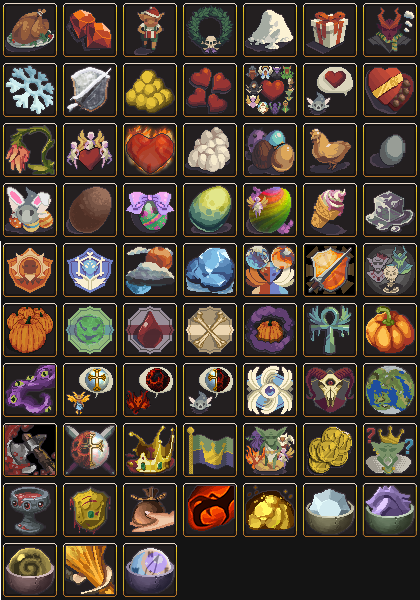
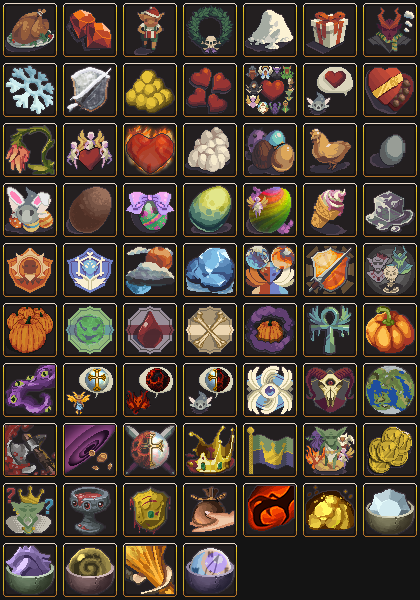
Blood War Event + Fixes

diff --git a/Events/index.php b/Events/index.php
@@ -61,7 +61,7 @@
 				<tr>
 					<th>Rubies</th>
 					<th colspan="1">Event</th>
-					<th colspan="8">Total Cumulative Bonus: 454%</th>
+					<th colspan="8">Total Cumulative Bonus: 462%</th>
 				</tr>
 			</thead>
 			<tbody>
@@ -119,6 +119,7 @@
 						<td>Anniversary</td>
 						<td></td>
 						<td></td>
+						<td>8%</td>
 						<td>8%</td>
 						<td>8%</td>
 						<td>8%</td>
@@ -592,32 +593,39 @@
 			" coords="3,423,57,477" shape="rect">
 			<area research="
 			<p><b>Anniversary - Blood War</b></p>
+			<p><b><img src='/realm/Factions/picks/PlanarTax.png' align='middle'> Planar Tax</b></p>
+			<p><b>Type</b>: Feat</p>					
+			<p><b>Requirement</b>: Collect a stack of at least 720 of any resource in a game with at least 1000 Tax Collection casts.</p>
+			<p><b>Note</b>: If you unlock this feat, you will permanently unlock a new icon option for the spell.</p>
+			" coords="63,423,117,477" shape="rect">
+			<area research="
+			<p><b>Anniversary - Blood War</b></p>
 			<p><b><img src='/realm/Factions/picks/EternalBattle.png' align='middle'> Eternal Battle</b></p>
 			<p><b>Type</b>: Feat</p>
 			<p><b>Requirement</b>: Collect a stack of at least 720 of any resource while having 3 upgrades of any Blood War faction.</p>
 			<p><b>Note</b>: If you unlock this feat, you will permanently unlock a new cosmetic shape for your coin particles.</p>
-			" coords="63,423,117,477" shape="rect">
+			" coords="123,423,177,477" shape="rect">
 			<area research="
 			<p><b>Goblin Invasion</b></p>
 			<p><b><img src='/realm/Factions/picks/GoblinsBane2017.png' align='middle'> Goblins Bane</b></p>
 			<p><b>Type</b>: Feat</p>
 			<p><b>Requirement</b>: Fight the Goblin Army 100 times.</p>
 			<p><b>Note</b>: If you unlock all of this event's feats, you will permanently unlock a new color option for the mana bar.</p>
-			" coords="123,423,177,477" shape="rect">
+			" coords="183,423,237,477" shape="rect">
 			<area research="
 			<p><b>Goblin Invasion</b></p>
 			<p><b><img src='/realm/Factions/picks/GoblinsCommander2017.png' align='middle'> Goblin's Commander</b></p>
 			<p><b>Type</b>: Feat</p>
 			<p><b>Requirement</b>: Support the Goblin Army 100 times.</p>
 			<p><b>Note</b>: If you unlock all of this event's feats, you will permanently unlock a new color option for the mana bar.</p>
-			" coords="183,423,237,477" shape="rect">
+			" coords="243,423,297,477" shape="rect">
 			<area research="
 			<p><b>Goblin Invasion</b></p>
 			<p><b><img src='/realm/Factions/picks/GoblinsEverywhere!2017.png' align='middle'> Goblins Everywhere!</b></p>
 			<p><b>Type</b>: Feat</p>
 			<p><b>Requirement</b>: Collect at least 10 Goblin Crowns in a single click while affiliated with any 6 different factions.</p>
 			<p><b>Note</b>: If you unlock all of this event's feats, you will permanently unlock a new color option for the mana bar.</p>
-			" coords="243,423,297,477" shape="rect">
+			" coords="303,423,357,477" shape="rect">
 			<area research="
 			<p><b>Goblin Invasion</b></p>
 			<p><b><img src='/realm/Factions/picks/GoldHunt2018.png' align='middle'> Gold Hunt</b></p>
@@ -625,7 +633,7 @@
 			<p><b>Requirement</b>: Collect at least 480 Goblin Crowns with a single click while affiliated with Goblins.</p>
 			<p><b>Note</b>: As prestige, only prestige will count. For example, Angel/Dwarven counts as Dwarven for feat purposes.</p>
 			<p><b>Note</b>: If you unlock all of this event's feats, you will permanently unlock a new color option for the mana bar.</p>
-			" coords="303,423,357,477" shape="rect">
+			" coords="363,423,417,477" shape="rect">
 			<area research="
 			<p><b>Goblin Invasion</b></p>
 			<p><b><img src='/realm/Factions/picks/TheUndecidedArmada.png' align='middle'> The Undecided Armada</b></p>
@@ -635,14 +643,14 @@
 			<p><b>Effect</b>: Increase assistants based on the amount of buildings you own (multiplicative).</p>
 			<p><b>Formula</b>: (0.65 * x ^ 0.35)%, where x is the amount of buildings you own.</p>
 			<p><b>Note</b>: Once unlocked, it is available during any Seasonal Event.</p>
-			" coords="363,423,417,477" shape="rect">
+			" coords="3,483,57,537" shape="rect">
 			<area research="
 			<p><b>Goblin Invasion</b></p>
 			<p><b><img src='/realm/Factions/picks/PlatinumTrophy.png' align='middle'> Platinum Trophy</b></p>
 			<p><b>Type</b>: Feat</p>
 			<p><b>Requirement</b>: While affiliated with the Goblins and having supported the Army at least 70 times, collect a stack of at least 720 Goblin Crowns.</p>
 			<p><b>Note</b>: If you unlock this feat, you will permanently unlock a new cosmetic shape for your coin particles.</p>
-			" coords="3,483,57,537" shape="rect">
+			" coords="63,483,117,537" shape="rect">
 			<area research="
 			<p><b>Goblin Invasion</b></p>
 			<p><b><img src='/realm/Factions/picks/BloodyCrown.png' align='middle'> Bloody Crown</b></p>
@@ -651,56 +659,56 @@
 			<p><b>Note</b>: If you unlock this feat, you will permanently unlock a new upgrade with the same name.</p>
 			<p><b>Effect</b>: Increase production bonus from Gems by a multiplicative 10%.</p>
 			<p><b>Note</b>: Once unlocked, it is available during any Seasonal Event.</p>
-			" coords="63,483,117,537" shape="rect">
+			" coords="123,483,177,537" shape="rect">
 			<area research="
 			<p><b>Idillium</b></p>
 			<p><b><img src='/realm/Factions/picks/GentleCollector.png' align='middle'> Gentle Collector</b></p>
 			<p><b>Type</b>: Feat</p>
 			<p><b>Requirement</b>: Collect at least 720 Entropic Drops with a single click while affiliated with the Fairies.</p>
 			<p><b>Note</b>: If you unlock all of this event's feats, you will permanently unlock a new color option for the mana bar.</p>
-			" coords="123,483,177,537" shape="rect">
+			" coords="183,483,237,537" shape="rect">
 			<area research="
 			<p><b>Idillium</b></p>
 			<p><b><img src='/realm/Factions/picks/AggressiveCollector.png' align='middle'> Aggressive Collector</b></p>
 			<p><b>Type</b>: Feat</p>
 			<p><b>Requirement</b>: Collect at least 720 Crystal Prisms with a single click while affiliated with the Undead.</p>
 			<p><b>Note</b>: If you unlock all of this event's feats, you will permanently unlock a new color option for the mana bar.</p>
-			" coords="183,483,237,537" shape="rect">
+			" coords="243,483,297,537" shape="rect">
 			<area research="
 			<p><b>Idillium</b></p>
 			<p><b><img src='/realm/Factions/picks/GoldenAge.png' align='middle'> Golden Age</b></p>
 			<p><b>Type</b>: Feat</p>
 			<p><b>Requirement</b>: Cast Remnant spells at least 1000 times.</p>
 			<p><b>Note</b>: If you unlock all of this event's feats, you will permanently unlock a new color option for the mana bar.</p>
-			" coords="243,483,297,537" shape="rect">
+			" coords="303,483,357,537" shape="rect">
 			<area research="
 			<p><b>Idillium</b></p>
 			<p><b><img src='/realm/Factions/picks/OrderRestoration.png' align='middle'> Order Restoration</b></p>
 			<p><b>Type</b>: Feat</p>
 			<p><b>Requirement</b>: Upgrade Order Remnant to Level 15.</p>
 			<p><b>Note</b>: If you unlock all of this event's feats, you will permanently unlock a new color option for the mana bar.</p>
-			" coords="303,483,357,537" shape="rect">
+			" coords="363,483,417,537" shape="rect">
 			<area research="
 			<p><b>Idillium</b></p>
 			<p><b><img src='/realm/Factions/picks/ChaosRestoration.png' align='middle'> Chaos Restoration</b></p>
 			<p><b>Type</b>: Feat</p>
 			<p><b>Requirement</b>: Upgrade Chaos Remnant to Level 15.</p>
 			<p><b>Note</b>: If you unlock all of this event's feats, you will permanently unlock a new color option for the mana bar.</p>
-			" coords="363,483,417,537" shape="rect">
+			" coords="3,543,57,597" shape="rect">
 			<area research="
 			<p><b>Idillium</b></p>
 			<p><b><img src='/realm/Factions/picks/BalanceRestoration.png' align='middle'> Balance Restoration</b></p>
 			<p><b>Type</b>: Feat</p>
 			<p><b>Requirement</b>: Upgrade Balance Remnant to Level 15.</p>
 			<p><b>Note</b>: If you unlock all of this event's feats, you will permanently unlock a new color option for the mana bar.</p>
-			" coords="3,543,57,597" shape="rect">
+			" coords="63,543,117,597" shape="rect">
 			<area research="
 			<p><b>Idillium</b></p>
 			<p><b><img src='/realm/Factions/picks/BalancedCollector.png' align='middle'> Balanced Collector</b></p>
 			<p><b>Type</b>: Feat</p>
 			<p><b>Requirement</b>: While affiliated with the Druids, collect a stack of at least 720 Equilibrium Fragments.</p>
 			<p><b>Note</b>: If you unlock this feat, you will permanently unlock a new cosmetic shape for your coin particles.</p>
-			" coords="63,543,117,597" shape="rect">
+			" coords="123,543,177,597" shape="rect">
 			<area research="
 			<p><b>Idillium</b></p>
 			<p><b><img src='/realm/Factions/picks/IdilliumExplorer.png' align='middle'> Idillium Explorer</b></p>
@@ -709,9 +717,9 @@
 			<p><b>Note</b>: If you unlock this feat, you will permanently unlock a new upgrade with the same name.</p>
 			<p><b>Effect</b>: Reduce the cost of all spells by 10%.</p>
 			<p><b>Note</b>: Once unlocked, it is available during any Seasonal Event.</p>
-			" coords="123,543,177,597" shape="rect">
+			" coords="183,543,237,597" shape="rect">
 		</map>
-		</p>
+	</p>
 	</center>
 	<hr>
 	<br style="clear: both" />
@@ -890,6 +898,153 @@
 	<div class="shlisting">
 		<p onclick="shohid($(this));"><b> <a href="#" onclick="return false;">2022 Events</a></b></p>
 		<div class="category autohide">
+			<div class="shelementwhole">
+				<p onclick="shohid($(this));"><b><a href="#" onclick="return false;">7th Anniversary - Blood War (May 17 - May 21, 2022)</a></b></p>
+				<div class="autohide">
+					<p>The Blood War event will be starting on <b>May 17th 2022, 12:01 PM UTC</b> and will end on <b>May 21st 2022, 6:59 PM UTC</b>.</p>
+					<p><b><img src="/realm/Factions/picks/NephilimGlory2017.png" alt="Nephilim Glory" align="middle"> Nephilim Glory</b></p>
+					<p><b>Cost</b>: Free</p>
+					<p><b>Effect</b>: Increase the production of all buildings based on the total amount of Holy Symbols and Lava Stones collected.</p>
+					<p><b>Note</b>: Persist through Abdication and Reincarnation. Will Disappear at the end of the event.</p>
+					<style>
+						div#images {
+							width: 100%;
+							text-align: left;
+						}
+
+						div#images div {
+							display: inline-block;
+						}
+					</style>
+					<p><b><center>Event Resources</center></b></p>
+					<div id="images">
+						<center>
+							<div>
+								<center><img src="/realm/Factions/picks/HolySymbolCurrency.png" width="54%" height="54%" /></center>
+								<center><b>Holy Symbols</b></center>
+							</div>
+							<div>
+								<center><img src="/realm/Factions/picks/LavaStoneCurrency.png" width="64%" height="64%" /></center>
+								<center><b>Lava Stones</b></center>
+							</div>
+						</center>
+					</div>
+					<br>
+					<p>Holy Symbols and Lava Stones will appear on a random location of the game screen and you simply have to click to collect them, then wait for more Resources to appear. Or you can let them grow bigger over time (at a rate of 1 Resource per Minute) if you are idle or offline, up to a maximum size of 720 Holy Symbols or Lava Stones! Be careful though, you can only collect one stack of Holy Symbols or Lava Stones - by doing so, the other will disappear.</p>
+					<p><b>Note</b>: You need 2350 of each resource to get all the upgrades.</p>
+					<p><b>Note</b>: All upgrades has a 1 time cost but needs selected every Abdication and Reincarnation.</p>
+					<hr>
+					<p><b><img src="/realm/Factions/picks/SeraphimAlliance2017.png" alt="Seraphim Alliance" align="middle"> Seraphim Alliance</b></p>
+					<p><b>Cost</b>: 200 Holy Symbols</p>
+					<p><b>Description</b>: The highest Angelic ranks carry wings blazing with pure light, whose every feather is infused with enough magical power to revive a dead soul or purify the hearts of a thousand sinners. Affiliating with the Seraphim will increase your magical abilities to the extreme, but you can only do so when playing as Good or Neutral.</p>
+					<br/>
+					<p><b>Seraphim Quest</b></p>
+					<p><b>Seraphim Champion 1</b></p>
+					<p><b><img src="/realm/Factions/picks/HeavenlyFeathers2017.png" alt="Heavenly Feathers" align="middle"> Heavenly Feathers</b></p>
+					<p><b>Cost</b>: 400 Holy Symbols.</p>
+					<p><b>Effect</b>: All buildings also increase your mana regeneration.</p>
+					<p><b>Formula</b>: (2 * x ^ 0.2)</p>
+					<p><b>Effect</b>: Adds 1% cumulative bonus to you total Event bonus.</p>
+					<br/>
+					<p><b>Seraphim Champion 2</b></p>
+					<p><b><img src="/realm/Factions/picks/God'sChamber2017.png" alt="God's Chamber" align="middle"> God's Chamber</b></p>
+					<p><b>Cost</b>: 750 Holy Symbols.</p>
+					<p><b>Effect</b>: Increase maximum mana by 1 for every 10 buildings you own.</p>
+					<p><b>Effect</b>: Adds 1% cumulative bonus to you total Event bonus.</p>
+					<br/>
+					<p><b>Seraphim Champion 3</b></p>
+					<p><b><img src="/realm/Factions/picks/BoonofRadiance2017.png" alt="Boon of Radiance" align="middle"> Boon of Radiance</b></p>
+					<p><b>Cost</b>: 1000 Holy Symbols.</p>
+					<p><b>Effect</b>: Increase the production of all buildings based on mana regeneration.</p>
+					<p><b>Formula</b>: (0.2 * (x * 30) ^ 0.85), where x is current mana regeneration.</p>
+					<p><b>Effect</b>: Adds 2% cumulative bonus to you total Event bonus.</p>
+					<p><b>Effect</b>: Also completes Seraphim Champion Feat.</p>
+					<hr>
+					<p><b><img src="/realm/Factions/picks/AsmondeanAlliance2017.png" alt="Asmodean Alliance" align="middle"> Asmodean Alliance</b></p>
+					<p><b>Cost</b>: 200 Lava Stones</p>
+					<p><b>Description</b>: The most cruel of Demons also happen to be the biggest and most deformed abyssal creatures, featuring all kinds of unnatural flesh and bone appendages. Their very existence is a pain to see and hear driving all but the most strong souls to madness. Affiliating with the Asmodeans will bolster your assistant army unbelievably, but you can only do so when playing as Evil or Neutral.</p>
+					<br/>
+					<p><b>Asmodean Quest</b></p>
+					<p><b>Asmodean Champion 1</b></p>
+					<p><b><img src="/realm/Factions/picks/Broodmothers2017.png" alt="Broodmothers" align="middle"> Broodmothers</b></p>
+					<p><b>Cost</b>: 400 Lava Stones</p>
+					<p><b>Effect</b>: Gain additional assistants based on time spent affiliated with the Asmodeans.</p>
+					<p><b>Formula</b>: (0.25 * x * (x + 1)), where x is hours</p>
+					<p><b>Effect</b>: Adds 1% cumulative bonus to you total Event bonus</p>
+					<br/>
+					<p><b>Asmodean Champion 2</b></p>
+					<p><b><img src="/realm/Factions/picks/AbyssalGaze2017.png" alt="Abyssal Gaze" align="middle"> Abyssal Gaze</b></p>
+					<p><b>Cost</b>: 750 Lava Stones</p>
+					<p><b>Effect</b>: Increase assistant production based on time spent as Evil (This R).</p>
+					<p><b>Formula</b>: (2 * x ^ 0.7)</p>
+					<p><b>Effect</b>: Adds 1% cumulative bonus to you total Event bonus</p>
+					<br/>
+					<p><b>Asmodean Champion 3</b></p>
+					<p><b><img src="/realm/Factions/picks/Legion'sLimbs2017.png" alt="Legion's Limbs" align="middle"> Legion's Limbs</b></p>
+					<p><b>Cost</b>: 1000 Lava Stones</p>
+					<p><b>Effect</b>: Increase clicking rewards based on the amount of assistants you own.</p>
+					<p><b>Formula</b>: (x ^ 0.85)</p>
+					<p><b>Effect</b>: Adds 2% cumulative bonus to you total Event bonus</p>
+					<p><b>Effect</b>: Also completes Asmodean Champion Feat.</p>
+					<hr>
+					<p><b>Event Feats</b></p>
+					<p>If you unlock all of this event's feats, you will permanently unlock a new color option for the mana bar.</p>
+					<p><b><img src="/realm/Factions/picks/SeraphimChampion2017.png" alt="Seraphim Champion" align="middle"> Seraphim Champion</b></p>
+					<p><b>Requirement</b>: Purchase all Seraphim Upgrades.</p>
+					<br/>
+					<p><b><img src="/realm/Factions/picks/AsmondeanChampion2017.png" alt="Asmodean Champion" align="middle"> Asmodean Champion</b></p>
+					<p><b>Requirement</b>: Purchase all Asmodean Upgrades</p>
+					<br/>
+					<p><b><img src="/realm/Factions/picks/SacredHoliness2017.png" alt="Sacred Holiness" align="middle"> Sacred Holiness</b></p>
+					<p><b>Requirement</b>: Collect at least 480 Holy Symbols with a single click while affiliated with the Angels.</p>
+					<br/>
+					<p><b><img src="/realm/Factions/picks/DarkestHeresy2017.png" alt="Darkest Heresy" align="middle"> Darkest Heresy</b></p>
+					<p><b>Requirement</b>: Collect at least 480 Lava Stones with a single click while affiliated with the Demons</p>
+					<br/>
+					<p><b><img src="/realm/Factions/picks/Indifference2018.png" alt="Indifference" align="middle"> Indifference</b></p>
+					<p><b>Requirement</b>: Collect at least 480 Lava Stones with a single click or Holy Symbols while affiliated with a Neutral faction</p>
+					<br/>
+					<p><b><img src="/realm/Factions/picks/WorldRestoration.png" alt="World Restoration" align="middle"> World Restoration</b></p>
+					<p><b>Requirement</b>: Have the same amount of Holy Symbols and Lava Stone at any given time, while having at least 1400.(Total)</p>
+					<p><b>Cost</b>: Free</p>
+					<p><b>Effect</b>: Increase the production of aligned buildings based on time spent as your least used alignment in this Reincarnation.</p>
+					<p><b>Formula</b>: (25 + 0.5 * x ^ 0.5)%, where x is your least used alignment in this Reincarnation (in seconds).</p>
+					<br/>
+					<p><b><img src="/realm/Factions/picks/FrenziedArmy2021.png" alt="Frenzied Army" align="middle"> Frenzied Army</b></p>
+					<p><b>Requirement</b>: Collect a stack of at least 720 of any resource while Blood Frenzy and Call to Arms are active simultaneously.</p>
+					<p><b>Note</b>: If you unlock this feat, you will permanently unlock a new upgrade with the same name.</p>
+					<p><b>Effect</b>: Increase assistants by 10%.</p>
+					<br/>
+					<p><b><img src="/realm/Factions/picks/PlanarTax.png" align="middle"> Planar Tax</b></p>
+					<p><b>Requirement</b>: Collect a stack of at least 720 of any resource in a game with at least 1000 Tax Collection casts.</p>
+					<p><b>Note</b>: If you unlock this feat, you will permanently unlock a new icon option for the spell.</p>
+					<br/>
+					<p><b><img src="/realm/Factions/picks/EternalBattle.png" align="middle"> Eternal Battle</b></p>
+					<p><b>Requirement</b>: Collect a stack of at least 720 of any resource while having 3 upgrades of any Blood War faction.</p>
+					<p><b>Note</b>: If you unlock this feat, you will permanently unlock a new cosmetic shape for your coin particles.</p>
+					<hr>
+					<p><b>Shop Item</b></p>
+					<p><b><img src="/realm/Factions/picks/40HolySymbolsandLavaStones2017.png" alt="40 Holy Symbols and Lava Stones" align="middle"> 40 Holy Symbols and Lava Stones</b></p>
+					<p>A hooded shady merchant wants to sell you 40 Holy Symbols and Lava Stones for 5 Rubies.</p>
+					<p>He will offer you a new deal if you accept.</p>
+					<br/>
+					<p><b><img src="/realm/Factions/picks/150HolySymbolsandLavaStones2017.png" alt="150 Holy Symbols and Lava Stones" align="middle"> 150 Holy Symbols and Lava Stones</b></p>
+					<p>A hooded shady merchant wants to sell you 150 Holy Symbols and Lava Stones for 15 Rubies.</p>
+					<p>He will offer you a new deal if you accept.</p>
+					<br/>
+					<p><b><img src="/realm/Factions/picks/650HolySymbolsandLavaStones2017.png" alt="650 Holy Symbols and Lava Stones" align="middle"> 650 Holy Symbols and Lava Stones</b></p>
+					<p>A hooded shady merchant wants to sell you 650 Holy Symbols and Lava Stones for 45 Rubies.</p>
+					<p>He will offer you a new deal if you accept.</p>
+					<br/>
+					<p><b><img src="/realm/Factions/picks/1800HolySymbolsandLavaStones2017.png" alt="1800 Holy Symbols and Lava Stones" align="middle"> 1800 Holy Symbols and Lava Stones</b></p>
+					<p>A hooded shady merchant wants to sell you 1800 Holy Symbols and Lava Stones for 100 Rubies.</p>
+					<p>These are all the resources he could gather.</p>
+					<br/>
+					<p><b><img src="/realm/Factions/picks/Valentine2017Scry.png" align="middle"> Scrying</b></p>
+					<p><b>Effect</b>: Produces 1 Lave Stone and 1 Holy Synbol every 10 minutes for 4 hours.</p>
+					<hr>
+				</div>
+			</div>
 			<div class="shelementwhole">
 				<p onclick="shohid($(this));"><b><a href="#" onclick="return false;">Easter (Apr 14 - Apr 21, 2022)</a></b></p>
 				<div class="autohide">

diff --git a/Challenges/index.php b/Challenges/index.php
@@ -694,7 +694,7 @@
 	<p><b><img src='http://musicfamily.org/realm/Factions/picks/AnUntimelyDeathChallenge.png' align='middle'> An Untimely Death</b></p>
 	<p>&quot;A glorious victory! May we reap the rewards of war with new undead adversaries to join our quest.&quot;</p>
 	<p><b>Requirements</b>: Undead as Base Faction, Archon as Elite Faction, Reincarnation 139+, Archon Bloodline active, Archon challenge 1 completed.</p>
-	<p><b>Challenge</b>: Have an Offline Bonus of at least 300 No (3e32)% while also having at least 100 B (1e11) assistants.</p>
+	<p><b>Challenge</b>: Have an Offline Bonus of at least 10 Sp (1e25)% while also having at least 100 B (1e11) assistants.</p>
 	<p><b>Effect</b>: Multiplicatively increase assistants based on Offline Bonus.</p>
 	<p><b>Formula</b>: (2 * log10(1 + x) ^ 2)%, where x is offline bonus multiplier.</p>
 	<p><b>Effect</b>: Temporal Flux also increases Offline Bonus (same Formula as production bonus).</p>

diff --git a/Artifacts/index.php b/Artifacts/index.php
@@ -170,7 +170,7 @@
 	<p><b><img src='http://musicfamily.org/realm/Factions/picks/ThirdCrystalFragment.png' align='middle'> Third Crystal Fragment</b></p>
 	<p><b>Hint</b>: Also acts as a spell catalyst.</p>
 	<p><b>Description</b>: A strange, glass-like material that appears to have been shattered into three pieces.</p>
-	<p><b>Requirement</b>: R125+, Demon Faction, 12,500+ Excavations/p>
+	<p><b>Requirement</b>: R125+, Demon Faction, 12,500+ Excavations</p>
 	<p><b>Chance</b>: (x / 50,000,000 (50 M))%, where x is evil spells this Reincarnation.</p>
 	" coords="243,163,296,216" shape="rect">
 		<area research="
